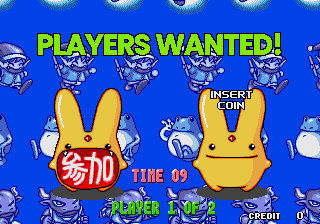
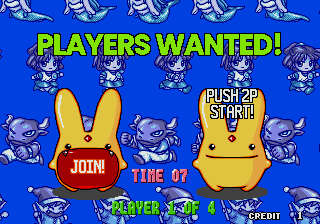
README: screenshots of the linked-cabinet screens; entry and join-in redone
Claude-Session: https://claude.ai/code/session_01MEgow1uRCv8pxMErKhmoHZ

diff --git a/README.md b/README.md
@@ -95,7 +95,7 @@ Known limits:
 
 ## Screenshots
 
-Japanese arcade original on the left, `puyopuy2e` on the right (MAME).
+Japanese arcade original on the left, `puyopuy2e` on the right (MAME; the linked-cabinet ones from two mame2003-plus instances joined by the test link, see Known limits).
 
 | | Original | English |
 |---|---|---|
@@ -109,6 +109,9 @@ Japanese arcade original on the left, `puyopuy2e` on the right (MAME).
 | Tower | ![](screenshots/tower2_jp.png) | ![](screenshots/tower2_en.png) |
 | Profile | ![](screenshots/profile_jp.png) | ![](screenshots/profile_en.png) |
 | Join-in | ![](screenshots/challenger_jp.png) | ![](screenshots/challenger_en.png) |
+| Linked cabinets: join prompt | ![](screenshots/join_jp.png) | ![](screenshots/join_en.png) |
+| Linked cabinets: knocked out | ![](screenshots/knockout_jp.png) | ![](screenshots/knockout_en.png) |
+| Linked cabinets: tutorial | ![](screenshots/linktutorial_jp.png) | ![](screenshots/linktutorial_en.png) |
 | Rule select | ![](screenshots/rule_jp.png) | ![](screenshots/rule_en.png) |
 | Level select | ![](screenshots/level_jp.png) | ![](screenshots/level_en.png) |
 | Win | ![](screenshots/win_jp.png) | ![](screenshots/win_en.png) |
